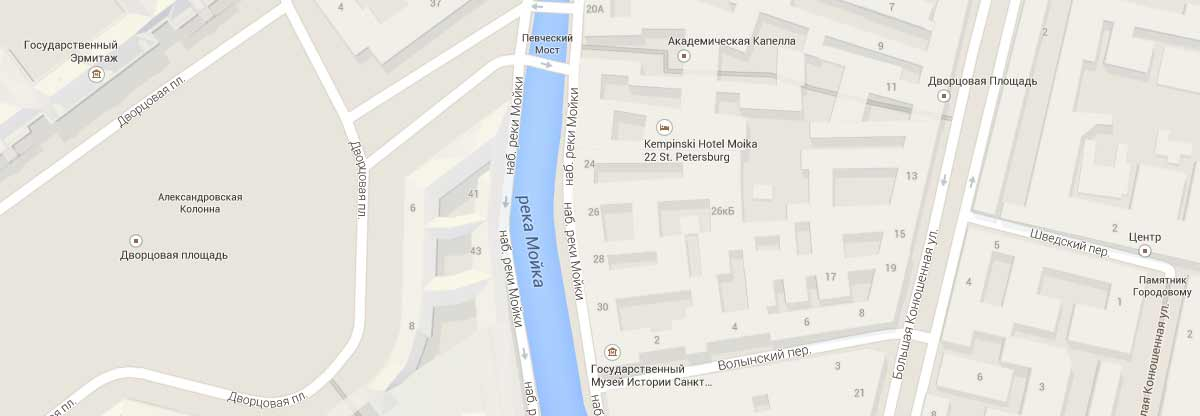
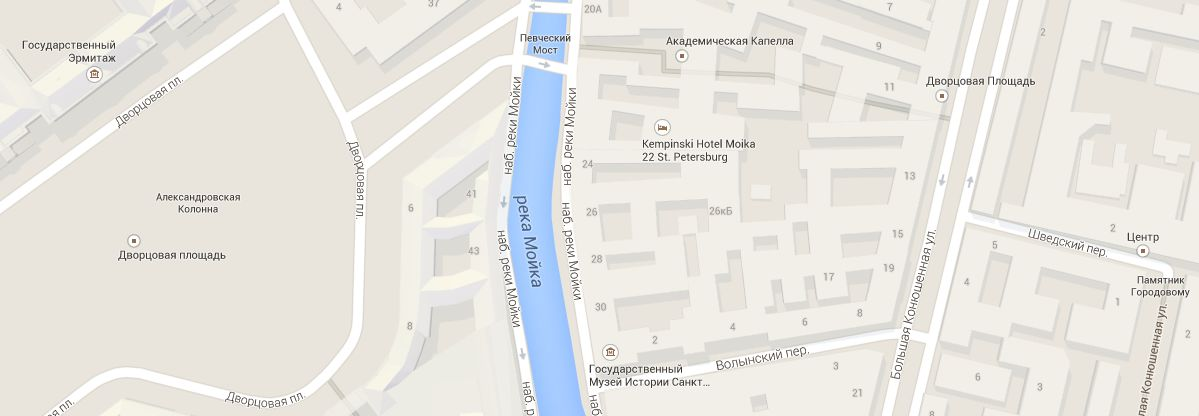
добавлена карта и форма связи

diff --git a/css/style.css b/css/style.css
@@ -146,7 +146,7 @@ ul {
   vertical-align: top;
 
   background: #ffffff;
-  border: 3px solid white;
+  border: 3px solid #ffffff;
   border-radius: 50%;
   cursor: pointer;
 }
@@ -265,7 +265,7 @@ ul {
 	text-decoration: none;
 	display:block;
 }
-.container-item>a>img {
+.container-href>img {
 	display:block;
 }
 .container-item:nth-child(3n){
@@ -781,6 +781,199 @@ input:checked~.checkbox-label::before{
 	margin-bottom: 30px;
 }
 .product-item:hover>.price{
+	display: block;	
+}
+.range-filter {
+  width: 240px;
+  margin: 50px auto; 
+}
+.range-controls {
+  position: relative;
+  height: 41px;
+  padding-top: 39px;
+  padding-right: 20px;
+  padding-left: 20px;
+  margin-bottom: 15px;
+  border-radius: 5px;
+  background: #f1f1f1;
+}
+.range-controls .scale {
+  height: 2px;
+  background: #d7dcde;
+}
+.range-controls .bar {
+  width: 70%;
+  height: 2px;
+  background: #00ca74;
+}.range-controls .bar {
+  width: 70%;
+  height: 2px;
+  background: #00ca74;
+}
+.range-controls .toggle {
+  position: absolute;
+  top: 30px;
+  left: 0px;
+  width: 4px;
+  height: 4px;
+  cursor: pointer;
+  border: 8px solid #fff;
+  border-radius: 50%;
+  background: #ababab;
+  box-shadow: 0 2px 1px 0 #cfcfcf;
+}
+.range-controls .toggle-min {
+  left: 50px;
+}
+
+.range-controls .toggle-max {
+  left: 110px;
+}
+
+.price-controls {
+  font-size: 0;
+}
+
+.price-controls label {
+  font-size: 16px;
+  display: inline-block;
+  width: 50%;
+}
+.max-price {
+  text-align: right;
+}
+.price-controls input {
+  font-family: 'Roboto', 'Arial', sans-serif;
+  font-size: 16px;
+  width: 60px;
+  margin-left: 10px;
+  padding: 8px 10px;
+  text-align: center;
+  color: #283136;
+  border: none;
+  border-radius: 5px;
+  outline: none;
+  background: #f1f1f1;
+}
+.map {
+	position: relative;
+	margin-top:87px;
+}
+
+.map-image{
+	width:100%;
+}
+.baloon {
+	position: absolute;
+	bottom: 30%;
+	right: 12%;
+}
+.form-adress {
+	position: absolute;
+	top: 20%;
+    left: 15%;
+	box-sizing: border-box;
+	padding: 23px 20px 26px;
+	
+	width: 250px;
+	min-height: 240px;
+	background: #ffffff;
+	
+}
+.form-adress-title {
+	font-size: 16px;
+	line-height: 30px;
+	margin-top: 0px;
+	margin-bottom: 22px;
+}
+.form-adress-contacts {
+	font-size: 16px;
+	line-height: 20px;
+}
+.btn-contacts {
 	display: block;
 	
+	padding: 0 53px;
+	margin: 31px auto 0;
+}
+.modal-content {
+	box-sizing: border-box;
+	width: 630px;
+    min-height: 417px;
+    padding: 53px 80px 49px 70px;
+    background-color: #ffffff;
+	position: absolute;
+    top: -35px;
+    left: 50%;
+    transform: translateX(-50%);
+	box-shadow: 0 10px 50px rgba(0, 0, 0, 0.7);
+}
+.modal-content-close {
+  position: absolute;
+  top: 6px;
+  right: 6px;
+  font-size: 0;
+  width: 40px;
+  height: 40px;
+  border-radius: 40px;
+  border: none;
+  outline: 0;
+  cursor: pointer;
+  background-color: #fb565a;
+    transform: rotate(45deg);
+}
+.modal-content-close::before,
+.modal-content-close::after {
+  content: "";
+  position: absolute;
+  top: 50%;
+  left: 50%;
+  transform: translate(-50%,-50%);
+  background-color: #ffffff;
+  border-radius: 1px;
+   
+}
+.modal-content-close::before {
+   width: 26px;
+  height: 4px;
+}
+
+.modal-content-close::after {
+    height: 26px;
+  width: 4px;
+}
+.form-label {
+	display: block;
+	font-size: 16px;
+	line-height: 18px;
+	padding-bottom: 11px;
+}
+.column-half{
+	box-sizing: border-box;
+	padding:0 10px 22px 10px;
+	float: left;
+	width: 50%;
+}
+.column-full{
+	display:block;
+	clear:both;
+	padding:0 10px;
+	height: 140px;
+}
+
+.form-control {
+	box-sizing: border-box;
+	padding:6px 15px;
+	font-size:12px;
+	width: 100%;
+	border: 2px solid #d7dcde;
+	border-radius: 2px;
+}
+.btn-message {
+	margin-top: 48px;
+	width: 100%;
+	
+}
+.form-textarea {
+	min-height: 110px;
 }

diff --git a/catalog.html b/catalog.html
@@ -13,7 +13,7 @@
     <div class="container clearfix">
 
       <nav class="main-navigation clearfix">
-			        <a class="index-logo">
+			        <a class="index-logo" href="/index.html">
           <img src="img/logo.png" width="139" height="56" alt="nёrds">
         </a>
           <div class="user-block">
@@ -21,13 +21,13 @@
           </div>
 		  <ul>
             <li>
-              <a href="#" class="active">СТУДИЯ</a>
+              <a href="/index.html">СТУДИЯ</a>
             </li>
             <li>
               <a href="#">КЛИЕНТЫ</a>
             </li>
             <li>
-              <a href="#">МАГАЗИН</a>
+              <a class="active">МАГАЗИН</a>
             </li>
             <li>
               <a href="#">КОНТАКТЫ</a>
@@ -44,9 +44,22 @@
   <main class="main">
     <div class="container clearfix">
       <div class="column-four">
-      <form>
+      <form action="form.php" method="GET">
         <span class="filter-header">СТОИМОСТЬ:</span>
-        <div class="range"></div>
+        <div class="range-filter">
+		<div class="range-controls">
+          <div class="scale">
+		  <div class="bar" style="margin-left: 20%; width: 30%"></div>
+            
+          </div>
+		  <div class="toggle toggle-min"></div>
+          <div class="toggle toggle-max"></div>
+        </div>
+        <div class="price-controls">
+           <label class="min-price">от <input name="min-price" type="text" value="0"></label>
+          <label class="max-price">до <input name="max-price" type="text" value="15000"></label>
+        </div>
+		</div>
         <span class="filter-header">СЕТКА:</span>
           <ul class="filter-list">
             <li>
@@ -230,6 +243,37 @@
 
  <footer class="main-footer">
     <div class="map">
+	<img src="/img/map.jpg" class="map-image" width="100%" />
+	<!--<iframe src="https://www.google.com/maps/embed?pb=!1m14!1m12!1m3!1d999.2954319565733!2d30.322226274738878!3d59.938930909982!2m3!1f0!2f0!3f0!3m2!1i1024!2i768!4f13.1!5e0!3m2!1sru!2sru!4v1472668794910" width="100%" height="450" frameborder="0" style="border:0" allowfullscreen></iframe>-->
+	<div class="baloon sprite sprite-baloon">
+	</div>
+	<div class="form-adress">
+	  <p class="form-adress-title">NЁRDS DESIGN STUDIO</p>
+      <p class="form-adress-contacts">119186, Санкт-Петербург, ул. Б.Конюшенная, д.19/8</p>
+      <p class="form-adress-contacts">тел.+7(812)275-75-75</p>
+      <button type="button" class="btn btn-red btn-contacts">НАПИШИТЕ НАМ</button>		 
+	</div>
+	<div class="modal-content">
+      <button class="modal-content-close" type="button" title="Закрыть">Закрыть</button>
+      <form class="message-form">
+		<label for="name" class="column-half">
+			<span class="form-label">Ваше имя:</span>
+			<input type="text" id="name" class="form-control" placeholder="ПРЕДСТАВЬТЕСЬ, ПОЖАЛУЙСТА">
+		</label>
+		<label for="mail" class="column-half">
+			<span class="form-label">Ваш e-mail:</span>
+			<input type="text" id="mail" class="form-control" placeholder="ДЛЯ ОТПРАВКИ ОТВЕТА">
+		</label>
+		<label for="text" class="column-full">
+			<span class="form-label">Текст письма:</span>
+			<textarea id="text" class="form-control form-textarea" placeholder="В СВОБОДНОЙ ФОРМЕ"></textarea>
+		</label>
+		<div class="column-full">
+		<button class="btn btn-red btn-message" type="submit" title="Отправить">ОТПРАВИТЬ</button>
+		</div>
+		
+	  </form>
+    </div>
      </div>
 	  <div class="container">
         <div class="column-four social-conteiner" >

diff --git a/index.html b/index.html
@@ -17,13 +17,13 @@
           </div>
 		  <ul>
             <li>
-              <a href="#" class="active">СТУДИЯ</a>
+              <a class="active">СТУДИЯ</a>
             </li>
             <li>
               <a href="#">КЛИЕНТЫ</a>
             </li>
             <li>
-              <a href="#">МАГАЗИН</a>
+              <a href="/catalog.html">МАГАЗИН</a>
             </li>
             <li>
               <a href="#">КОНТАКТЫ</a>
@@ -134,6 +134,37 @@
 
   <footer class="main-footer">
     <div class="map">
+	<img src="/img/map.jpg" class="map-image" width="100%" />
+	<!--<iframe src="https://www.google.com/maps/embed?pb=!1m14!1m12!1m3!1d999.2954319565733!2d30.322226274738878!3d59.938930909982!2m3!1f0!2f0!3f0!3m2!1i1024!2i768!4f13.1!5e0!3m2!1sru!2sru!4v1472668794910" width="100%" height="450" frameborder="0" style="border:0" allowfullscreen></iframe>-->
+	<div class="baloon sprite sprite-baloon">
+	</div>
+	<div class="form-adress">
+	  <p class="form-adress-title">NЁRDS DESIGN STUDIO</p>
+      <p class="form-adress-contacts">119186, Санкт-Петербург, ул. Б.Конюшенная, д.19/8</p>
+      <p class="form-adress-contacts">тел.+7(812)275-75-75</p>
+      <button type="button" class="btn btn-red btn-contacts">НАПИШИТЕ НАМ</button>		 
+	</div>
+	<div class="modal-content">
+      <button class="modal-content-close" type="button" title="Закрыть">Закрыть</button>
+      <form class="message-form">
+		<label for="name" class="column-half">
+			<span class="form-label">Ваше имя:</span>
+			<input type="text" id="name" class="form-control" placeholder="ПРЕДСТАВЬТЕСЬ, ПОЖАЛУЙСТА">
+		</label>
+		<label for="mail" class="column-half">
+			<span class="form-label">Ваш e-mail:</span>
+			<input type="text" id="mail" class="form-control" placeholder="ДЛЯ ОТПРАВКИ ОТВЕТА">
+		</label>
+		<label for="text" class="column-full">
+			<span class="form-label">Текст письма:</span>
+			<textarea id="text" class="form-control form-textarea" placeholder="В СВОБОДНОЙ ФОРМЕ"></textarea>
+		</label>
+		<div class="column-full">
+		<button class="btn btn-red btn-message" type="submit" title="Отправить">ОТПРАВИТЬ</button>
+		</div>
+		
+	  </form>
+    </div>
      </div>
 	  <div class="container">
         <div class="column-four social-conteiner" >
